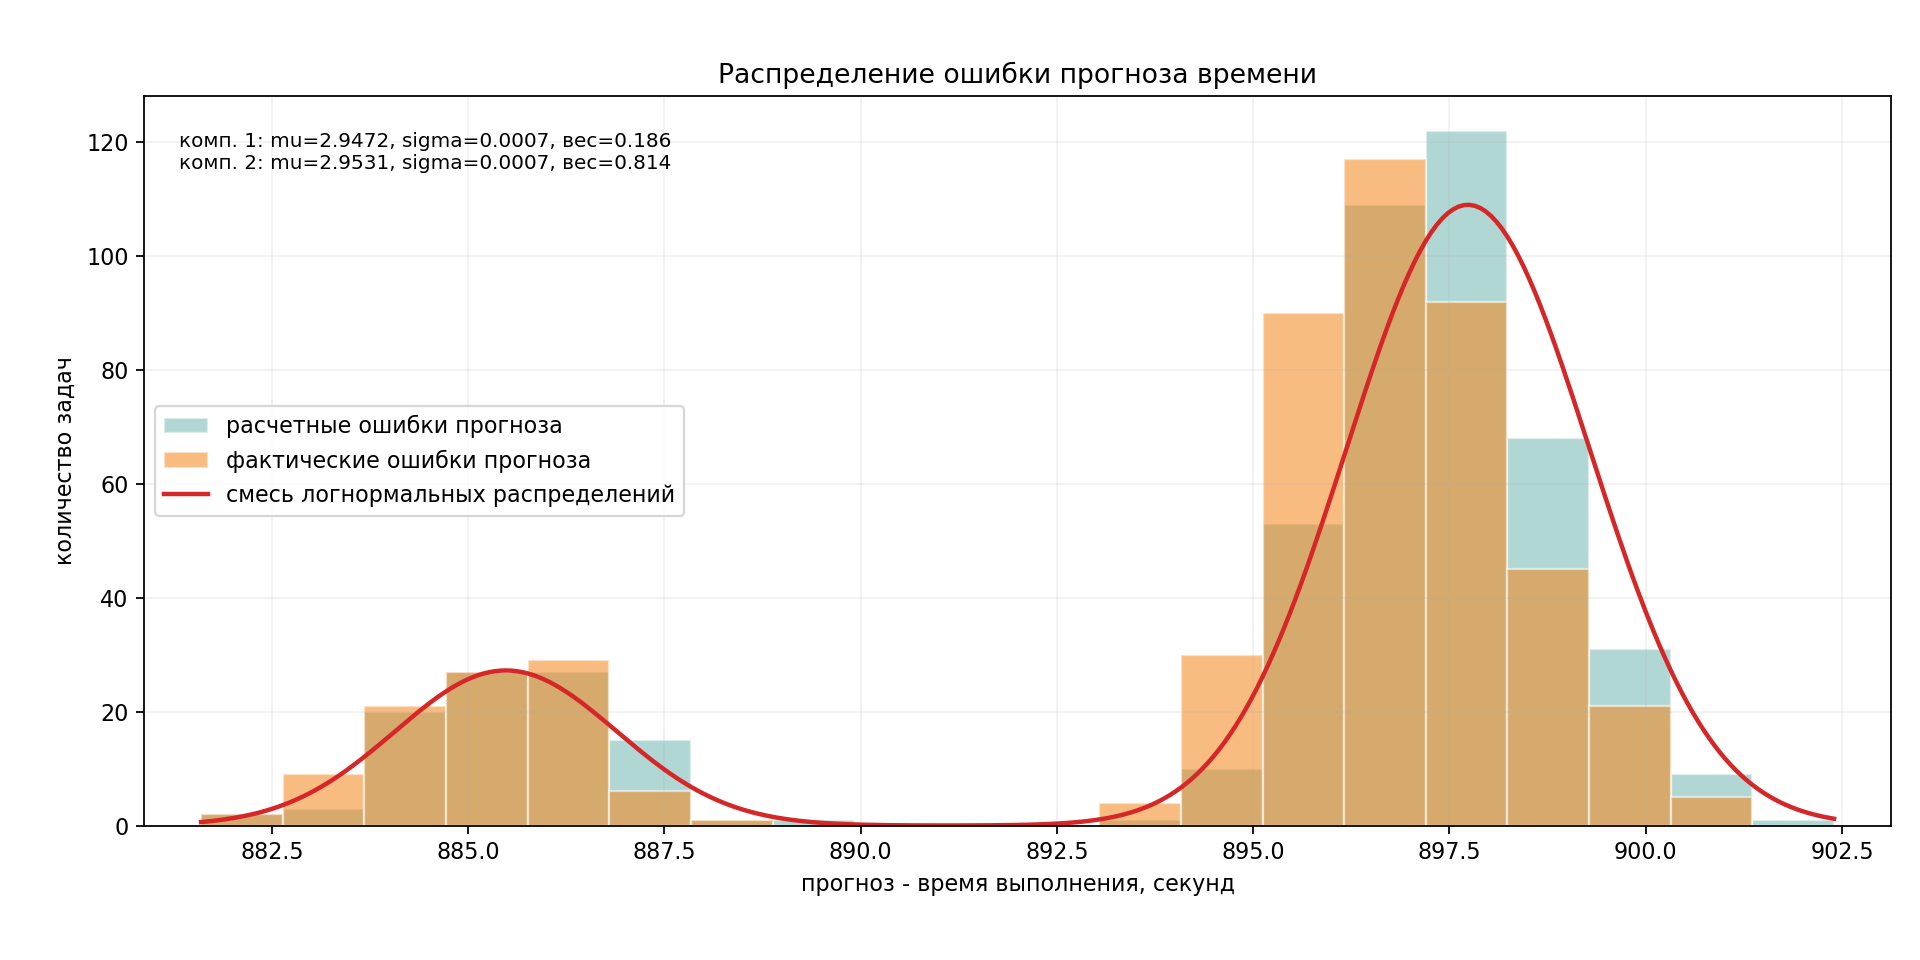
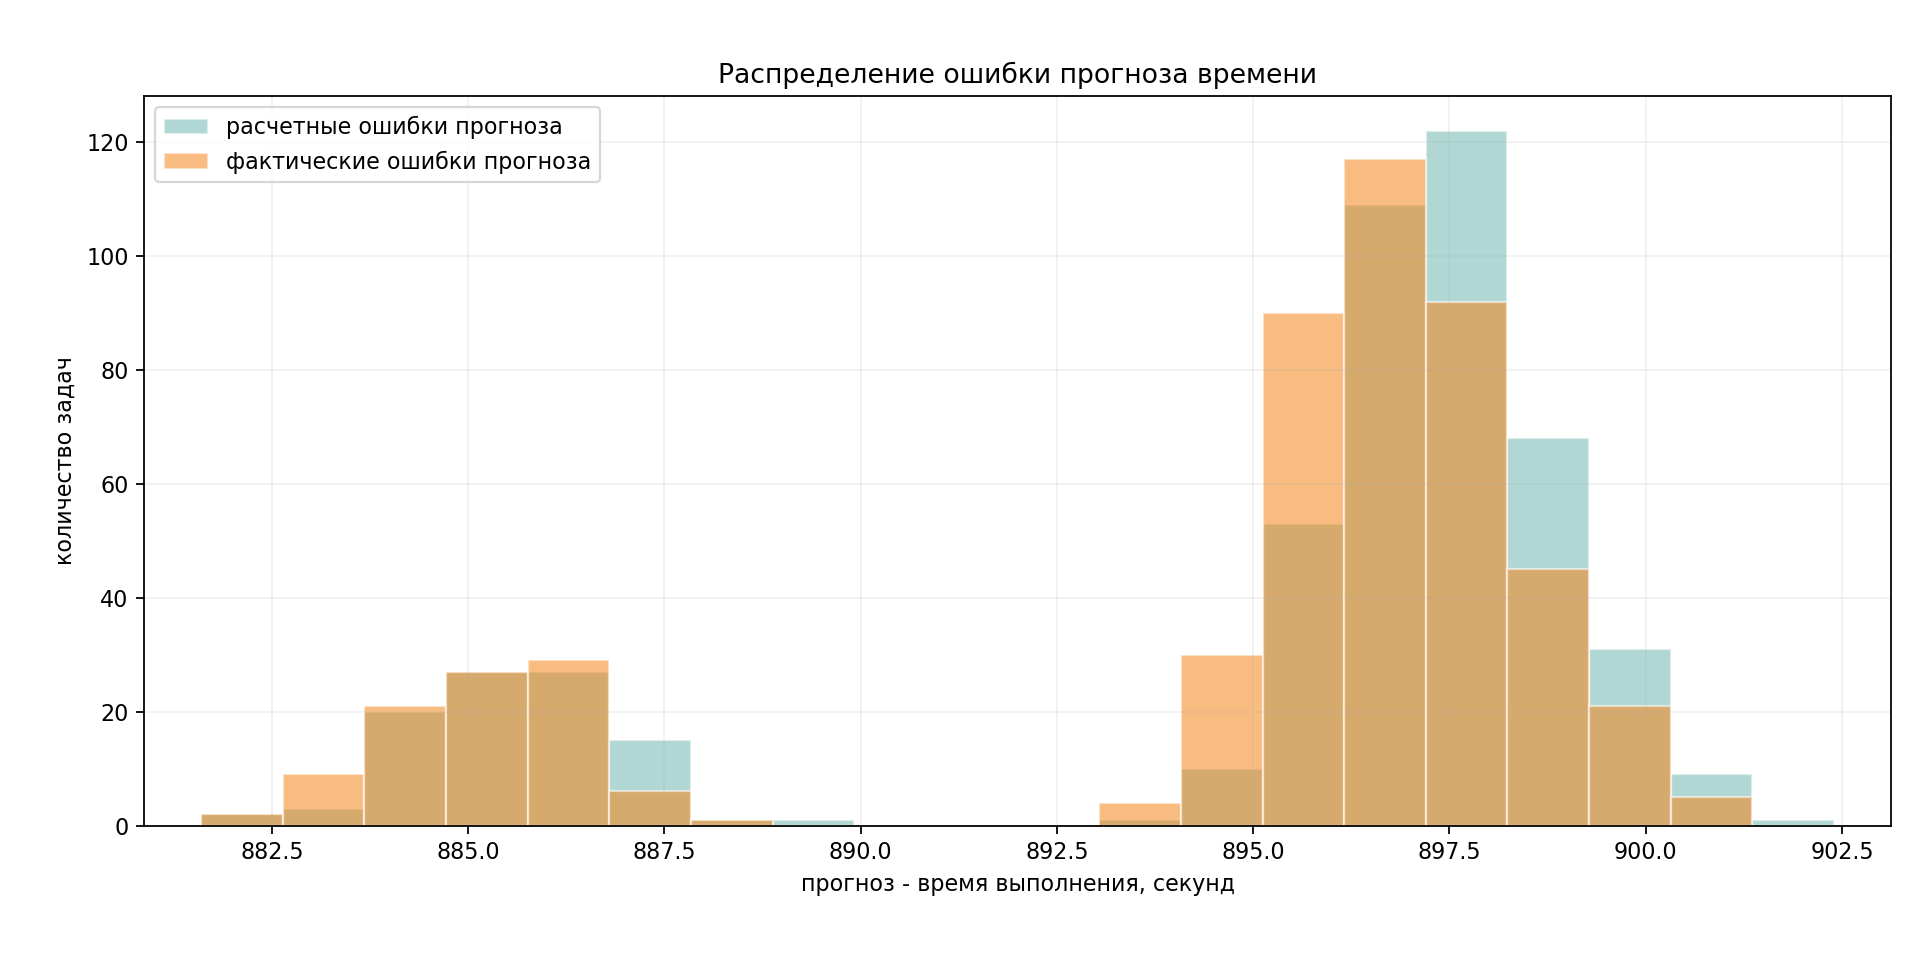
[refactor]: fix text of final report parts

diff --git a/report/tex/sections/основная_часть/основная_часть.tex b/report/tex/sections/основная_часть/основная_часть.tex
@@ -4,7 +4,7 @@
 
 Практическая часть работы выполнялась на локальной машине с использованием Oracle VM VirtualBox\footnote{Руководство пользователя Oracle VM VirtualBox: \url{https://www.virtualbox.org/manual/}.}. В качестве модели вычислительного кластера была использована схема из пяти виртуальных машин: один управляющий узел и четыре вычислительных узла. Управляющий узел получил имя \mintinline{text}{mgmt}, вычислительные узлы получили имена \mintinline{text}{cn01}, \mintinline{text}{cn02}, \mintinline{text}{cn03} и \mintinline{text}{cn04}.
 
-На все виртуальные машины был установлен дистрибутив openSUSE Leap\footnote{Документация openSUSE Leap: \url{https://doc.opensuse.org/}.}. При установке была выбрана минимальная консольная конфигурация без графической среды~--- графический интерфейс не нужен для работы служб SLURM, MUNGE и SSH, но занимает дисковое пространство и оперативную память.
+На все виртуальные машины был установлен дистрибутив openSUSE Leap\footnote{Документация openSUSE Leap: \url{https://doc.opensuse.org/}.}. При установке была выбрана минимальная консольная конфигурация без графической среды.
 
 Каждой виртуальной машине был выделен один виртуальный процессор и 2 ГБ оперативной памяти. Первоначально для системного диска рассматривался объём 8--10 ГБ, однако установщик openSUSE Leap требовал не менее 12,5 ГиБ под корневой раздел и дополнительно 1--2 ГиБ под раздел подкачки. После этого виртуальные машины были пересозданы с диском объёмом 16 ГБ.
 
@@ -16,9 +16,13 @@
 
 Для внутренней сети был выбран диапазон IP-адресов \mintinline{text}{10.1.0.0/24}. Управляющему узлу назначен адрес \mintinline{text}{10.1.0.21}, вычислительным узлам назначены адреса \mintinline{text}{10.1.0.31}, \mintinline{text}{10.1.0.32}, \mintinline{text}{10.1.0.33} и \mintinline{text}{10.1.0.34}. Адреса управляющего и вычислительных узлов разнесены по разным десяткам, поэтому конфигурация остаётся читаемой и допускает добавление новых узлов без изменения выбранной схемы.
 
+Для доступа к виртуальным машинам с хостовой системы в VirtualBox были настроены пробросы SSH-портов через NAT: для \mintinline{text}{mgmt} использовался порт \mintinline{text}{2201}, для \mintinline{text}{cn01}--\mintinline{text}{cn04}~--- порты \mintinline{text}{2202}--\mintinline{text}{2205}. Это позволяло подключаться к каждому узлу с локальной машины, не открывая внешний доступ к внутренней сети кластера.
+
+После настройки проброса портов на локальной машине была создана SSH-пара ключей и подготовлен пользовательский конфигурационный файл \mintinline{text}{~/.ssh/config}. В нём для каждого узла были указаны локальный адрес, соответствующий проброшенный порт и приватный ключ. После этого подключение с хостовой системы выполнялось по коротким именам узлов.
+
 Разрешение имён выполнено через файл \mintinline{text}{/etc/hosts}. На всех узлах были добавлены одинаковые записи для имён \mintinline{text}{mgmt}, \mintinline{text}{cn01}, \mintinline{text}{cn02}, \mintinline{text}{cn03} и \mintinline{text}{cn04}.
 
-Следующим этапом была настройка SSH-доступа без ввода пароля. Для этого на каждом узле была создана SSH-пара ключей, публичные ключи всех узлов были добавлены в файл \mintinline{text}{/etc/authorized/keys} на каждом узле. Дополнительно был создан пользовательский SSH-конфиг, в котором имена узлов сопоставлены с соответствующими хостами и выбранным приватным ключом. После настройки команда вида \mintinline{text}{ssh cn01} выполняется с любого узла без указания ключа и без ввода пароля.
+Далее был настроен SSH-доступ без ввода пароля. Для этого на каждом узле была создана SSH-пара ключей, публичные ключи всех узлов были добавлены в файл \mintinline{text}{/etc/authorized/keys} на каждом узле. Дополнительно был создан пользовательский SSH-конфиг, в котором имена узлов сопоставлены с соответствующими хостами и выбранным приватным ключом. После настройки команда вида \mintinline{text}{ssh cn01} выполняется с любого узла без указания ключа и без ввода пароля.
 
 \subsection{Установка MUNGE и SLURM}
 
@@ -28,9 +32,18 @@
 
 Пакеты устанавливались через пакетный менеджер \mintinline{text}{zypper}. На управляющем узле используется служба \mintinline{text}{slurmctld}, которая хранит состояние очереди, принимает задания и назначает ресурсы. На вычислительных узлах используется служба \mintinline{text}{slurmd}, которая сообщает управляющему узлу о состоянии узла и выполняет назначенные задания.
 
-Конфигурация SLURM была сформирована через официальный конфигуратор SchedMD\footnote{Slurm Configuration Tool на сайте SchedMD: \url{https://slurm.schedmd.com/configurator.html}.}. В конфигурации указан кластер \mintinline{text}{practice}, управляющий узел \mintinline{text}{mgmt}, вычислительные узлы \mintinline{text}{cn[01-04]} и очередь \mintinline{text}{debug}. Для выбора процесса отслеживания был оставлен вариант \mintinline{text}{proctrack/cgroup}; для выбора ресурсов использован \mintinline{text}{select/cons_tres}; для планировщика выбран \mintinline{text}{sched/backfill}. Эти параметры соответствуют рекомендациям конфигуратора и позволяют SLURM учитывать выделенные ресурсы, отслеживать процессы заданий и заполнять свободные промежутки в расписании.
+Конфигурация SLURM была сформирована через официальный конфигуратор SchedMD\footnote{Slurm Configuration Tool на сайте SchedMD: \url{https://slurm.schedmd.com/configurator.html}.}. В конфигурации указан кластер \mintinline{text}{practice}, управляющий узел \mintinline{text}{mgmt}, вычислительные узлы \mintinline{text}{cn[01-04]} и очередь \mintinline{text}{debug}. Для выбора процесса отслеживания был оставлен вариант \mintinline{text}{proctrack/cgroup}; для выбора ресурсов использован \mintinline{text}{select/cons_tres}; для планировщика выбран \mintinline{text}{sched/backfill}. Эти параметры соответствуют рекомендациям конфигуратора.
 
 Один и тот же файл \mintinline{text}{slurm.conf} был размещён на всех узлах в каталоге \mintinline{text}{/etc/slurm}. На управляющем узле был создан каталог сохранения состояния контроллера, на вычислительных узлах был создан каталог для состояния \mintinline{text}{slurmd}. После запуска служб состояние кластера проверялось командами \mintinline{text}{sinfo} и \mintinline{text}{squeue}; перед запуском генерации вычислительные узлы должны находиться в состоянии \mintinline{text}{idle}.
+
+Команда \mintinline{text}{sinfo} показывает состояние разделов SLURM и вычислительных узлов. Пример вывода для настроенного кластера:
+
+\begin{minted}[fontsize=\small]{text}
+PARTITION AVAIL  TIMELIMIT  NODES  STATE NODELIST
+debug*       up   infinite      4   idle cn[01-04]
+\end{minted}
+
+Команда \mintinline{text}{squeue} используется для просмотра очереди заданий; перед запуском генератора её пустой вывод означает, что в очереди нет активных или ожидающих заданий.
 
 \subsection{Обработка исходного набора данных}
 
@@ -46,13 +59,13 @@
 
 В выбранном наборе данных минимальная длительность завершённого задания составляет 699 секунд, медиана составляет 1652 секунды, среднее значение составляет 1712.39 секунды. Максимальное значение равно 16660 секунд. Ошибка прогноза времени для завершённых заданий имеет медиану 19948 секунд и среднее значение 19887.61 секунды; следовательно, пользовательские задания в данном варианте обычно запрашивали время с большим запасом относительно длительности из исходной статистики.
 
-На рисунке~\ref{fig:source-summary} приведена сводная визуализация отфильтрованной выборки. Она показывает, сколько записей осталось после отбора по индивидуальному варианту, какую долю составляют успешно завершённые задания и в каком диапазоне лежит их исходная длительность выполнения. Эти данные используются дальше при подборе распределений для генератора.
+На рисунке~\ref{fig:source-summary} приведена сводная визуализация отфильтрованной выборки. Она показывает, сколько записей осталось после отбора по индивидуальному варианту, какую долю составляют успешно завершённые задания. Эти данные используются дальше при подборе распределений для генератора.
 
 \screenshot[fig:source-summary][1]{img/source_summary.png}{Сводка по исходному набору данных}
 
 \subsection{Аппроксимация исходных распределений}
 
-Анализ исходных длительностей показал, что в данных присутствуют две выраженные группы заданий. Первая группа сосредоточена около 1647 секунд и имеет вес около 0.809, вторая группа сосредоточена около 1925 секунд и имеет вес около 0.191. Поэтому длительность из исходного набора данных была описана смесью двух нормальных распределений. Параметры смеси приведены в таблице~\ref{tab:runtime-mixture}.
+Анализ исходных длительностей показал, что в данных присутствуют две выраженные группы заданий. Центр первой группы находится на уровне 1647 секунд, её вес равен 0.809; центр второй группы находится на уровне 1925 секунд, её вес равен 0.191. Поэтому длительность из исходного набора данных была описана смесью двух нормальных распределений. Параметры смеси приведены в таблице~\ref{tab:runtime-mixture}.
 
 \begin{table}[H]
     \centering
@@ -73,11 +86,11 @@
 \end{table}
 
 
-На рисунке~\ref{fig:runtime-fit} видно, что исходные длительности не образуют один общий пик: основная часть заданий сосредоточена около 1650 секунд, меньшая группа~--- около 1925 секунд. Наложенная кривая проходит через обе области концентрации, поэтому при генерации сохраняются два характерных режима выполнения, а не усреднённая длительность между ними.
+Рисунок~\ref{fig:runtime-fit} показывает, что исходные длительности не образуют один общий пик: основная часть заданий сосредоточена вблизи 1650 секунд, меньшая группа~--- вблизи 1925 секунд. Наложенная кривая проходит через обе области концентрации, поэтому при генерации сохраняются два характерных режима выполнения, а не усреднённая длительность между ними.
 
 \screenshot[fig:runtime-fit][1]{img/runtime_fit.png}{Аппроксимация распределения исходной длительности выполнения}
 
-В таблице~\ref{tab:error-mixture} приведены параметры смеси логнормальных распределений для ошибки прогноза времени. Для каждой компоненты указаны параметры $\mu$ и $\sigma$ в десятичной логарифмической шкале, а также вес компоненты в общей смеси. Первая компонента имеет меньший вес и описывает меньшую группу значений, вторая компонента является основной.
+В таблице~\ref{tab:error-mixture} приведены параметры смеси логнормальных распределений для ошибки прогноза времени. Для каждой компоненты указаны параметры $\mu$ и $\sigma$ в десятичной логарифмической шкале, а также вес компоненты в общей смеси. Первая компонента соответствует менее частой части выборки, вторая компонента является основной.
 
 \begin{table}[H]
     \centering
@@ -97,11 +110,11 @@
     \end{tblr}
 \end{table}
 
-На рисунке~\ref{fig:log-error-fit} показан десятичный логарифм ошибки прогноза времени по исходному набору данных. В этой шкале две компоненты смеси видны как две близко расположенные группы значений. Их параметры приведены в таблице~\ref{tab:error-mixture}.
+На рисунке~\ref{fig:log-error-fit} показан десятичный логарифм ошибки прогноза времени по исходному набору данных. Логарифмирование показывает, что основная масса значений разделяется на две близкие области; по ним заданы компоненты смеси из таблицы~\ref{tab:error-mixture}.
 
 \screenshot[fig:log-error-fit][1]{img/log_forecast_error_fit.png}{Распределение логарифма ошибки прогноза времени}
 
-На рисунке~\ref{fig:error-fit} показано распределение ошибки прогноза времени в масштабированной шкале эксперимента. Голубая гистограмма соответствует расчётной ошибке из манифеста, а красная кривая показывает смесь логнормальных распределений, сформированную по параметрам из логарифмической шкалы.
+На рисунке~\ref{fig:error-fit} показано распределение ошибки прогноза времени в масштабированной шкале запуска. Голубая гистограмма соответствует расчётной ошибке из манифеста.
 
 \screenshot[fig:error-fit][1]{img/forecast_error_fit.png}{Распределение ошибки прогноза времени}
 
@@ -109,13 +122,13 @@
 
 \subsection{Генерация заданий}
 
-Генератор запускается на управляющем узле \mintinline{text}{mgmt}. На вход ему передаются число заданий, масштаб длительности выполнения, масштаб планового времени и параметры распределений. Для каждого задания выбирается исходная длительность, ошибка прогноза и число требуемых узлов. Плановое время рассчитывается как сумма выбранной длительности и ошибки прогноза, после чего значения масштабируются для запуска на учебном кластере.
+Генератор запускается на управляющем узле \mintinline{text}{mgmt}. На вход ему передаются число заданий, масштаб длительности выполнения, масштаб планового времени и параметры распределений. Для каждого задания выбирается исходная длительность, ошибка прогноза и число требуемых узлов. Плановое время рассчитывается как сумма выбранной длительности и ошибки прогноза, после чего значения масштабируются для запуска на кластере.
 
-Результатом работы генератора является каталог запуска с манифестом \mintinline{text}{manifest.csv} и набором сценариев заданий \mintinline{text}{.slurm}. В манифест записываются имя сценария задания, сгенерированные и масштабированные времена, лимит SLURM, число узлов и число задач. Каждый сценарий содержит параметры \mintinline{text}{#SBATCH}, команду \mintinline{text}{sleep} с рассчитанной длительностью и запись времени начала и окончания в общий журнал. Пример такого сценария приведён в приложении~\ref{app:job}.
+Результатом работы генератора является каталог запуска с манифестом \mintinline{text}{manifest.csv} и набором файлов заданий \mintinline{text}{.slurm}. В манифест записываются имя файла задания, сгенерированные и масштабированные времена, лимит SLURM, число узлов и число задач. Каждый файл задания содержит параметры \mintinline{text}{#SBATCH}, команду \mintinline{text}{sleep} с рассчитанной длительностью и запись времени начала и окончания в общий журнал. Пример такого задания приведён в приложении A.
 
-Масштабирование нужно для того, чтобы исходные задания длительностью в десятки минут можно было воспроизвести на учебном кластере за ограниченное время. Масштаб длительности выполнения применяется к выбранной длительности задания и определяет аргумент команды \mintinline{text}{sleep}. Масштаб планового времени применяется к сумме выбранной длительности и ошибки прогноза; это значение записывается в манифест как плановое время и используется при расчёте ошибки прогноза. В параметре \mintinline{text}{--time} для SLURM передаётся то же плановое время, но округлённое до минут из-за формата лимита выполнения.
+Масштабирование нужно для того, чтобы исходные задания длительностью в десятки минут можно было воспроизвести на кластере за ограниченное время. Масштаб длительности выполнения применяется к выбранной длительности задания и определяет аргумент команды \mintinline{text}{sleep}. Масштаб планового времени применяется к сумме выбранной длительности и ошибки прогноза; это значение записывается в манифест как плановое время и используется при расчёте ошибки прогноза. В параметре \mintinline{text}{--time} для SLURM передаётся то же плановое время, но округлённое до минут из-за формата лимита выполнения.
 
-В манифесте для итогового запуска оба масштаба были выбраны около 0.045. После масштабирования медиана времени \mintinline{text}{sleep} составила 74 секунды, среднее значение~--- 76.116 секунды, максимум~--- 89 секунд. Медиана планового времени составила 972 секунды. Так как длительность выполнения и плановое время масштабируются одинаково, соотношение между длительностью задания и запасом времени сохраняется.
+В манифесте для итогового запуска оба масштаба были выбраны 0.045. После масштабирования медиана времени \mintinline{text}{sleep} составила 74 секунды, среднее значение~--- 76.116 секунды, максимум~--- 89 секунд. Медиана планового времени составила 972 секунды. Так как длительность выполнения и плановое время масштабируются одинаково, соотношение между длительностью задания и запасом времени сохраняется.
 
 В таблице~\ref{tab:nodes} приведено распределение сгенерированных заданий по числу запрошенных узлов. Число узлов формируется по нормальному распределению и не привязано к значениям в исходной выборке. Большая часть заданий использует 2 узла, задания на 1 и 3 узла встречаются реже, задания на 4 узла составляют малую часть выборки.
 
@@ -144,17 +157,17 @@
 
 \subsection{Запуск заданий и сбор фактической статистики}
 
-После генерации сценарии заданий отправляются в SLURM командой \mintinline{text}{sbatch}. Состояние очереди отслеживается через \mintinline{text}{squeue}, а сведения о завершённых заданиях сохраняются в файл \mintinline{text}{results.csv}. Для каждого задания фиксируются идентификатор SLURM, имя сценария задания, состояние, узел выполнения, время ожидания в очереди, фактическое время выполнения и наблюдаемое полное время.
+После генерации задания отправляются в SLURM командой \mintinline{text}{sbatch}. Состояние очереди отслеживается через \mintinline{text}{squeue}, а сведения о завершённых заданиях сохраняются в файл \mintinline{text}{results.csv}. Для каждого задания фиксируются идентификатор SLURM, имя файла задания, состояние, узел выполнения, время ожидания в очереди, фактическое время выполнения и наблюдаемое полное время.
 
 При анализе используются три временные величины. Запланированное время берётся из манифеста генератора. Значение \mintinline{text}{--time} передаётся в SLURM как лимит выполнения, но SLURM округляет его до минут. Фактическое время выполнения берётся из статистики SLURM. Поэтому фактическая ошибка прогноза считается по плановому значению из \mintinline{text}{manifest.csv}, а не по округлённому лимиту из очереди.
 
-В итоговом эксперименте все 500 заданий завершились в состоянии \mintinline{text}{COMPLETED}. Запуск занял 6 часов 7 минут 4 секунды. Суммарное фактическое время выполнения всех заданий составило 10 часов 38 минут 28 секунд; оно больше времени всего запуска, так как задания выполнялись параллельно. Запланированное время \mintinline{text}{sleep} находилось в диапазоне от 72 до 89 секунд, медиана составила 74 секунды. Фактическое время выполнения находилось в диапазоне от 72 до 90 секунд, медиана составила 75 секунд. Медиана накладных расходов относительно команды \mintinline{text}{sleep} составила около 0.562\%, среднее значение~--- около 0.656\%, максимальное значение~--- около 1.389\%.
+В итоговом запуске все 500 заданий завершились в состоянии \mintinline{text}{COMPLETED}. Запуск занял 6 часов 7 минут 4 секунды. Суммарное фактическое время выполнения всех заданий составило 10 часов 38 минут 28 секунд; оно больше времени всего запуска, так как задания выполнялись параллельно. Запланированное время \mintinline{text}{sleep} находилось в диапазоне от 72 до 89 секунд, медиана составила 74 секунды. Фактическое время выполнения находилось в диапазоне от 72 до 90 секунд, медиана составила 75 секунд. Медиана накладных расходов относительно команды \mintinline{text}{sleep} составила 0.562\%, среднее значение~--- 0.656\%, максимальное значение~--- 1.389\%.
 
 На рисунке~\ref{fig:planned-actual} показано сравнение планового и фактического времени по отдельным заданиям.
 
 \screenshot[fig:planned-actual][1]{img/planned_vs_actual_by_job.png}{Плановое и фактическое время выполнения заданий}
 
-Отклонение фактического времени по каждому заданию считается относительно времени \mintinline{text}{sleep}, записанного генератором в сценарий задания:
+Отклонение фактического времени по каждому заданию считается относительно времени \mintinline{text}{sleep}, записанного генератором в файл задания:
 
 \[
     \delta_i =
@@ -171,11 +184,11 @@
 
 \screenshot[fig:actual-overhead][1]{img/actual_overhead_by_job.png}{Накладные расходы фактического выполнения по заданиям}
 
-Для сравнения был рассмотрен более короткий предварительный запуск на 200 заданий с масштабом времени 0.01, то есть с ускорением примерно в 100 раз. В этом случае длительность \mintinline{text}{sleep} для большинства заданий становится порядка 10--20 секунд, поэтому постоянные накладные расходы SLURM занимают заметную долю времени выполнения.
+Для сравнения был рассмотрен более короткий предварительный запуск на 200 заданий с масштабом времени 0.01, то есть с ускорением в 100 раз. В этом случае длительность \mintinline{text}{sleep} для большинства заданий попадает в диапазон 10--20 секунд, поэтому постоянные накладные расходы SLURM занимают заметную долю времени выполнения.
 
 \screenshot[fig:actual-overhead-200-100x][1]{img/actual_overhead_200_values_100x.png}{Накладные расходы при запуске 200 заданий с ускорением в 100 раз}
 
-На рисунке~\ref{fig:actual-overhead-200-100x} видно, что при таком масштабе часть значений выходит за контрольный порог 3\%. В этом запуске порог превысили 139 из 200 заданий, максимальное отклонение составило 12.5\%, медианное значение~--- 5.0\%. Поэтому для итогового эксперимента был выбран менее агрессивный масштаб времени: он увеличивает длительность отдельных заданий, но уменьшает относительный вклад накладных расходов.
+На рисунке~\ref{fig:actual-overhead-200-100x} часть значений выходит за контрольный порог 3\%. В этом запуске порог превысили 139 из 200 заданий, максимальное отклонение составило 12.5\%, медианное значение~--- 5.0\%. Поэтому для итогового запуска был выбран менее агрессивный масштаб времени: он увеличивает длительность отдельных заданий, но уменьшает относительный вклад накладных расходов.
 
 \subsection{Анализ фактической ошибки прогноза}\label{sec:actual-forecast-error}
 
@@ -195,12 +208,12 @@
 
 Здесь $T_{\text{plan}}^{\text{manifest}}$~--- плановое время из манифеста генератора, а $T_{\text{run}}^{\text{SLURM}}$~--- фактическое время выполнения, полученное из статистики SLURM.
 
-На рисунке~\ref{fig:actual-error-fit} показано распределение фактической ошибки прогноза. В запуске на 500 заданий ошибка находилась в диапазоне от 881 до 901 секунды, медиана составила около 897 секунд. Наложенная кривая описывает наблюдаемую фактическую ошибку после выполнения заданий, а не параметры генератора.
+На рисунке~\ref{fig:actual-error-fit} показано распределение фактической ошибки прогноза. В запуске на 500 заданий ошибка находилась в диапазоне от 881 до 901 секунды, медиана составила 897 секунд. Наложенная кривая описывает наблюдаемую фактическую ошибку после выполнения заданий, а не параметры генератора.
 
 \screenshot[fig:actual-error-fit][1]{img/actual_error_fit.png}{Распределение фактической ошибки прогноза времени}
 
-На рисунке~\ref{fig:log-actual-error-fit} показан десятичный логарифм фактической ошибки прогноза. В этой шкале видно, что фактические значения остаются компактными и располагаются рядом с областью, заданной параметрами генератора. Небольшой сдвиг связан с тем, что фактическое время выполнения немного отличается от запланированного времени \mintinline{text}{sleep}.
+На рисунке~\ref{fig:log-actual-error-fit} показан десятичный логарифм фактической ошибки прогноза. Фактические значения образуют компактную область рядом с распределением, заданным параметрами генератора. Небольшой сдвиг связан с тем, что фактическое время выполнения немного отличается от запланированного времени \mintinline{text}{sleep}.
 
 \screenshot[fig:log-actual-error-fit][1]{img/log_actual_error_fit.png}{Распределение логарифма фактической ошибки прогноза времени}
 
-Итоговый запуск на 500 заданий показал, что выбранный масштаб времени подходит для эксперимента на четырёх вычислительных узлах. Медианное отклонение фактического времени от \mintinline{text}{sleep} составило около 0.562\%, среднее значение~--- около 0.656\%, максимальное значение~--- около 1.389\%. Фактическая ошибка прогноза остаётся близкой к расчётной ошибке из манифеста; это сопоставление показано на рисунке~\ref{fig:error-fit-actual-comparison}.
+Итоговый запуск на 500 заданий показал, что выбранный масштаб времени подходит для проверки на четырёх вычислительных узлах. Медианное отклонение фактического времени от \mintinline{text}{sleep} составило 0.562\%, среднее значение~--- 0.656\%, максимальное значение~--- 1.389\%. Фактическая ошибка прогноза остаётся близкой к расчётной ошибке из манифеста; это сопоставление показано на рисунке~\ref{fig:error-fit-actual-comparison}.

diff --git a/report/tex/pages/заключение.tex b/report/tex/pages/заключение.tex
@@ -1,12 +1,26 @@
 \section*{Заключение}
 \addcontentsline{toc}{section}{Заключение}
 
-В ходе работы был сгенерирован поток пользовательских заданий SLURM на основе статистики реальной очереди и подготовлена учебная среда для проверки этого потока на вычислительном кластере. На локальной машине были созданы пять виртуальных машин с openSUSE Leap: управляющий узел \mintinline{text}{mgmt} и вычислительные узлы \mintinline{text}{cn01}--\mintinline{text}{cn04}. Для узлов настроены статические IP-адреса, разрешение имён, SSH-доступ по ключам и общая конфигурация MUNGE.
+В ходе работы был сгенерирован поток пользовательских заданий SLURM на основе статистики реальной очереди и подготовлена среда для проверки этого потока на вычислительном кластере. На локальной машине были созданы пять виртуальных машин с openSUSE Leap: управляющий узел \mintinline{text}{mgmt} и вычислительные узлы \mintinline{text}{cn01}--\mintinline{text}{cn04}. Для узлов настроены статические IP-адреса, разрешение имён, SSH-доступ по ключам и общая конфигурация MUNGE.
 
-На кластере установлен SLURM. Конфигурационный файл сформирован через официальный конфигуратор и синхронизирован между всеми узлами. Управляющий узел запускает службу \mintinline{text}{slurmctld}, вычислительные узлы запускают службу \mintinline{text}{slurmd}. Работоспособность кластера проверялась командами \mintinline{text}{sinfo}, \mintinline{text}{squeue} и запуском заданий SLURM.
+Запуск выполнялся на хостовой машине MacBook Air с процессором Apple M3, 8 вычислительными ядрами и 16 ГБ оперативной памяти под управлением macOS 26.5.1. Каждой виртуальной машине был выделен один виртуальный процессор, 2 ГБ оперативной памяти и виртуальный диск объёмом 16 ГБ.
 
-Для индивидуального варианта был подготовлен фрагмент исходного набора данных с UID 50728 и именем задания \mintinline{text}{qe7}. По выбранным данным рассчитаны параметры распределения длительности выполнения и ошибки прогноза времени. Генератор формирует сценарии заданий SLURM, выбирает количество узлов, рассчитывает плановое время и длительность команды \mintinline{text}{sleep}, после чего отправляет задания в очередь. Полученная статистика позволяет сопоставить исходное распределение, сгенерированные параметры и фактические результаты выполнения.
+По задачам, сформулированным в постановке, получены следующие результаты:
 
-Последний сформированный манифест содержит 500 заданий. Распределение числа узлов по заданиям составило 118 заданий на один узел, 245 заданий на два узла, 124 задания на три узла и 13 заданий на четыре узла. При выбранном масштабе времени медианное плановое время составляет 972 секунды, медианное время \mintinline{text}{sleep} составляет 74 секунды. Оценка длительности полного запуска на четырёх вычислительных узлах составляет около 6,5 часов, а ожидаемое отклонение фактического времени от планируемого при накладных расходах порядка 1,5 секунды на задание составляет около 2\%.
+\begin{enumerate}
+    \item Создана схема из пяти виртуальных машин.
+    \item Настроены статическая адресация, разрешение имён и связность узлов.
+    \item Настроен SSH-доступ по ключам без ввода пароля.
+    \item Установлен MUNGE, подготовлен общий ключ и синхронизировано время.
+    \item Установлен и настроен SLURM.
+    \item Состояние вычислительных узлов проверено средствами SLURM.
+    \item Исходный набор данных отфильтрован по индивидуальному варианту.
+    \item Рассчитаны параметры распределений длительности выполнения и ошибки прогноза времени.
+    \item Реализован генератор пользовательских заявок SLURM.
+    \item Сгенерированные задания запущены на кластере, результаты выполнения собраны в журнал.
+    \item Исходные, сгенерированные и полученные при запуске характеристики сопоставлены в таблицах и на графиках.
+\end{enumerate}
 
-Таким образом, поставленная задача выполнена: учебный кластер SLURM развёрнут, генератор пользовательских заявок реализован, исходные данные обработаны, а результаты генерации и выполнения представлены в виде численных характеристик и графиков.
+Последний сформированный манифест содержит 500 заданий. При выбранном масштабе времени медианное плановое время составляет 972 секунды, медианное время \mintinline{text}{sleep} составляет 74 секунды. Итоговый запуск занял 6 часов 7 минут 4 секунды; медианное отклонение фактического времени от \mintinline{text}{sleep} составило 0.562\%, максимальное отклонение~--- 1.389\%.
+
+Таким образом, поставленная задача выполнена: кластер SLURM развёрнут, генератор пользовательских заявок реализован, исходные данные обработаны, а результаты генерации и выполнения представлены в виде численных характеристик и графиков.

diff --git a/report/tex/pages/приложение_Б.tex b/report/tex/pages/приложение_Б.tex
@@ -1,10 +1,16 @@
-\section*{Приложение Б. Пример сгенерированного задания SLURM}
+\section*{Приложение Б. Код генератора пользовательских заявок}
 \phantomsection
-\label{app:job}
-\addcontentsline{toc}{section}{Приложение Б. Пример сгенерированного задания SLURM}
+\label{app:generator-code}
+\addcontentsline{toc}{section}{Приложение Б. Код генератора пользовательских заявок}
 
 \renewcommand{\theFancyVerbLine}{%
     \scriptsize\ttfamily\textcolor{gray}{\arabic{FancyVerbLine}}%
 }
 
-\inputminted[linenos, numbersep=10pt, firstnumber=1, fontsize=\scriptsize]{bash}{code/example_job_0001.slurm}
+Файл \mintinline{text}{generate/main.py} содержит разбор параметров, выбор значений из распределений, масштабирование времени и запись манифеста.
+
+\inputminted[linenos, numbersep=10pt, firstnumber=1, fontsize=\scriptsize, breaklines]{python}{code/generator_main.py}
+
+Файл \mintinline{text}{generate/template.py} формирует текст задания SLURM.
+
+\inputminted[linenos, numbersep=10pt, firstnumber=1, fontsize=\scriptsize, breaklines]{python}{code/generator_template.py}

diff --git a/report/tex/pages/источники.tex b/report/tex/pages/источники.tex
@@ -2,19 +2,16 @@
 \begin{thebibliography}{99}
 
 \bibitem{slurm}
-Slurm Workload Manager Documentation [Электронный ресурс] // SchedMD. URL: \url{https://slurm.schedmd.com/documentation.html} (дата обращения: 26.06.2026).
+Slurm Workload Manager Documentation [Электронный ресурс] // SchedMD. URL: \url{https://slurm.schedmd.com/documentation.html} (дата обращения: 21.06.2026).
 
 \bibitem{slurm-configurator}
-Slurm Configuration Tool [Электронный ресурс] // SchedMD. URL: \url{https://slurm.schedmd.com/configurator.html} (дата обращения: 26.06.2026).
+Slurm Configuration Tool [Электронный ресурс] // SchedMD. URL: \url{https://slurm.schedmd.com/configurator.html} (дата обращения: 21.06.2026).
 
 \bibitem{munge}
-MUNGE Uid 'N' Gid Emporium [Электронный ресурс]. URL: \url{https://dun.github.io/munge/} (дата обращения: 26.06.2026).
+MUNGE Uid 'N' Gid Emporium [Электронный ресурс]. URL: \url{https://dun.github.io/munge/} (дата обращения: 21.06.2026).
 
 \bibitem{opensuse}
-openSUSE Leap Documentation [Электронный ресурс] // openSUSE. URL: \url{https://doc.opensuse.org/} (дата обращения: 26.06.2026).
-
-\bibitem{virtualbox}
-Oracle VM VirtualBox User Manual [Электронный ресурс] // Oracle. URL: \url{https://www.virtualbox.org/manual/} (дата обращения: 26.06.2026).
+openSUSE Leap Documentation [Электронный ресурс] // openSUSE. URL: \url{https://doc.opensuse.org/} (дата обращения: 18.06.2026).
 
 \bibitem{gost}
 ГОСТ 7.32--2017. Система стандартов по информации, библиотечному и издательскому делу. Отчёт о научно-исследовательской работе. Структура и правила оформления. М.: Стандартинформ, 2017.

diff --git a/report/tex/pages/приложение_A.tex b/report/tex/pages/приложение_A.tex
@@ -1,0 +1,10 @@
+\section*{Приложение А. Пример сгенерированного задания SLURM}
+\phantomsection
+\label{app:job}
+\addcontentsline{toc}{section}{Приложение А. Пример сгенерированного задания SLURM}
+
+\renewcommand{\theFancyVerbLine}{%
+    \scriptsize\ttfamily\textcolor{gray}{\arabic{FancyVerbLine}}%
+}
+
+\inputminted[linenos, numbersep=10pt, firstnumber=1, fontsize=\scriptsize]{bash}{code/example_job_0001.slurm}

diff --git a/report/tex/pages/постановка_задачи.tex b/report/tex/pages/постановка_задачи.tex
@@ -1,10 +1,10 @@
 \section{Постановка задачи}
 
-Необходимо сгенерировать поток пользовательских заданий на основе статистики реальной очереди SLURM, подготовить учебный кластер для запуска этих заданий и проанализировать полученные результаты выполнения.
+Необходимо сгенерировать поток пользовательских заданий на основе статистики реальной очереди SLURM, подготовить кластер для запуска этих заданий и проанализировать полученные результаты выполнения.
 
 Задачи.
 
-\begin{itemize}
+\begin{enumerate}
     \item Создать пять виртуальных машин: один управляющий узел и четыре вычислительных узла.
     \item Настроить статическую адресацию, разрешение имён и сетевую связность между всеми узлами.
     \item Настроить SSH-доступ по ключам между узлами без ввода пароля.
@@ -16,8 +16,8 @@
     \item Реализовать генератор пользовательских заявок SLURM.
     \item Запустить сгенерированные задания на кластере и собрать статистику выполнения.
     \item Представить результаты выполнения и сравнить исходные, сгенерированные и фактические характеристики заданий.
-\end{itemize}
+\end{enumerate}
 
-Во варианте работы обозначены: дистрибутив openSUSE Leap, UID 50728, имя задания \mintinline{text}{qe7}. Исходные записи набора данных фильтруются по указанному UID и имени задания.
+В варианте работы обозначены: дистрибутив openSUSE Leap, UID 50728, имя задания \mintinline{text}{qe7}. Исходные записи набора данных фильтруются по указанному UID и имени задания.
 
 Результатом работы должны стать настроенный кластер SLURM, исходный код генератора, набор сгенерированных заданий, результаты выполнения на кластере, сравнение расчётных и фактических характеристик и отчёт, оформленный в соответствии с ГОСТ 7.32--2017.

diff --git a/report/tex/pages/титульник.tex b/report/tex/pages/титульник.tex
@@ -10,16 +10,16 @@
     Направление: 02.03.01 «Математика и компьютерные науки»\\
     [70pt]
 
-    \large Отчёт о выполнении о выполнении научно-исследовательской работы \\[5pt]
+    \large Отчёт о выполнении научно-исследовательской работы \\[5pt]
     \large На тему: <<Развёртывание кластера SLURM и генерация потока пользовательских заданий>>\\[5pt]
 \end{center}
 
 \vspace{95pt}
 
 \begin{tabular*}{430pt}{@{\extracolsep{\fill}} l r l}
-    Выполнил студент\tabularnewline группы 5130201/40002 & \hspace{60pt} \line(1,0){100} \hspace{-52pt} & Семенов И. А.\\
+    Выполнил студент\tabularnewline группы 5130201/40002 & \hspace{60pt} \line(1,0){100} \hspace{-20pt} & Семенов И. А.\\
      & \\
-     Проверил \tabularnewline преподаватель & \hspace{60pt} \line(1,0){100} \hspace{-52pt} & Чуватов М. В. \\
+     Проверил \tabularnewline преподаватель & \hspace{60pt} \line(1,0){100} \hspace{-20pt} & Чуватов М. В. \\
      & \\
      & \\
      & \\

diff --git a/report/tex/pages/реферат.tex b/report/tex/pages/реферат.tex
@@ -1,9 +1,9 @@
 \section*{Реферат}
 \addcontentsline{toc}{section}{Реферат}
 
-Отчёт посвящён развёртыванию учебного вычислительного кластера под управлением SLURM\footnote{В современных реалиях используется название Slurm Workload Manager; исторически написание SLURM расшифровывалось как Simple Linux Utility for Resource Management.} и разработке программы генерации пользовательских заданий на основе статистики реальной очереди. В ходе работы была подготовлена среда из пяти виртуальных машин на базе openSUSE Leap: управляющий узел и четыре вычислительных узла. Для узлов настроены статическая адресация, разрешение имён, SSH\footnote{SSH~--- Secure Shell, протокол защищённого удалённого доступа.}-доступ по ключам, общая служба аутентификации MUNGE\footnote{MUNGE~--- MUNGE Uid 'N' Gid Emporium, служба аутентификации, используемая SLURM для проверки сообщений между узлами.} и конфигурация SLURM.
+Отчёт посвящён развёртыванию вычислительного кластера под управлением SLURM\footnote{В современных реалиях используется название Slurm Workload Manager; исторически написание SLURM расшифровывалось как Simple Linux Utility for Resource Management.} и разработке программы генерации пользовательских заданий на основе статистики реальной очереди. В ходе работы была подготовлена среда из пяти виртуальных машин на базе openSUSE Leap: управляющий узел и четыре вычислительных узла. Для узлов настроены статическая адресация, разрешение имён, SSH\footnote{SSH~--- Secure Shell, протокол защищённого удалённого доступа.}-доступ по ключам, общая служба аутентификации MUNGE\footnote{MUNGE~--- MUNGE Uid 'N' Gid Emporium, служба аутентификации, используемая SLURM для проверки сообщений между узлами.} и конфигурация SLURM.
 
-Для генерации потока заданий использован фрагмент набора данных SLURM, отфильтрованный по индивидуальному варианту: UID\footnote{UID~--- User Identifier, числовой идентификатор пользователя в Unix-подобных системах.} 50728 и имя задания \mintinline{text}{qe7}. По исходным данным рассчитаны распределения длительности выполнения и ошибки пользовательского прогноза времени. На основе полученных параметров реализован генератор пользовательских заявок SLURM, который формирует сценарии заданий с командой \mintinline{text}{sleep}, задаёт плановое время выполнения и автоматически помещает задания в очередь. Результаты представлены через статистику выполненных заданий, графики исходных и сгенерированных распределений, а также сравнение планового и фактического времени выполнения.
+Для генерации потока заданий использован фрагмент набора данных SLURM, отфильтрованный по индивидуальному варианту: UID\footnote{UID~--- User Identifier, числовой идентификатор пользователя в Unix-подобных системах.} 50728 и имя задания \mintinline{text}{qe7}. По исходным данным рассчитаны распределения длительности выполнения и ошибки пользовательского прогноза времени. На основе полученных параметров реализован генератор пользовательских заявок SLURM, который формирует задания с командой \mintinline{text}{sleep}, задаёт плановое время выполнения и автоматически помещает задания в очередь. Результаты представлены через статистику выполненных заданий, графики исходных и сгенерированных распределений, а также сравнение планового и фактического времени выполнения.
 
 Ключевые слова: SLURM, MUNGE, openSUSE Leap, кластер, виртуальная машина, пользовательская заявка, очередь заданий, логнормальное распределение, нормальное распределение, генерация заданий.
 

diff --git a/report/main.tex b/report/main.tex
@@ -21,7 +21,6 @@
 
 \include{tex/pages/источники}
 
-\include{tex/pages/приложение_А}
+\include{tex/pages/приложение_A}
 \include{tex/pages/приложение_Б}
-\include{tex/pages/приложение_В}
 \end{document}

diff --git a/report/tex/pages/введение.tex b/report/tex/pages/введение.tex
@@ -5,6 +5,6 @@
 
 Качество планирования в вычислительном кластере зависит от того, насколько точно пользователь оценивает требуемое время выполнения задания. На практике пользователь часто указывает время с запасом: фактическое время выполнения оказывается меньше запрошенного. Из-за этого диспетчер вынужден резервировать ресурсы на большее время, чем действительно необходимо, что усложняет планирование очереди и может снижать загрузку узлов.
 
-Цель работы~--- сгенерировать поток пользовательских заданий SLURM на основе статистики реальной очереди и проверить его выполнение в учебном кластере. Для этого необходимо построить кластер из виртуальных машин, настроить сетевое взаимодействие между узлами, подготовить конфигурацию SLURM, проанализировать исходный набор данных, разработать генератор заданий и сопоставить расчётные параметры с фактическими результатами запуска.
+Цель работы~--- сгенерировать поток пользовательских заданий SLURM на основе статистики реальной очереди и проверить его выполнение в кластере. Для этого необходимо построить кластер из виртуальных машин, настроить сетевое взаимодействие между узлами, подготовить конфигурацию SLURM, проанализировать исходный набор данных, разработать генератор заданий и сопоставить расчётные параметры с фактическими результатами запуска.
 
 В отчёте описаны этапы подготовки виртуальных машин, настройки сетевой связности и SSH-доступа, установки MUNGE и SLURM, выбора параметров конфигурации, обработки исходного набора данных, генерации заданий и анализа результатов выполнения.